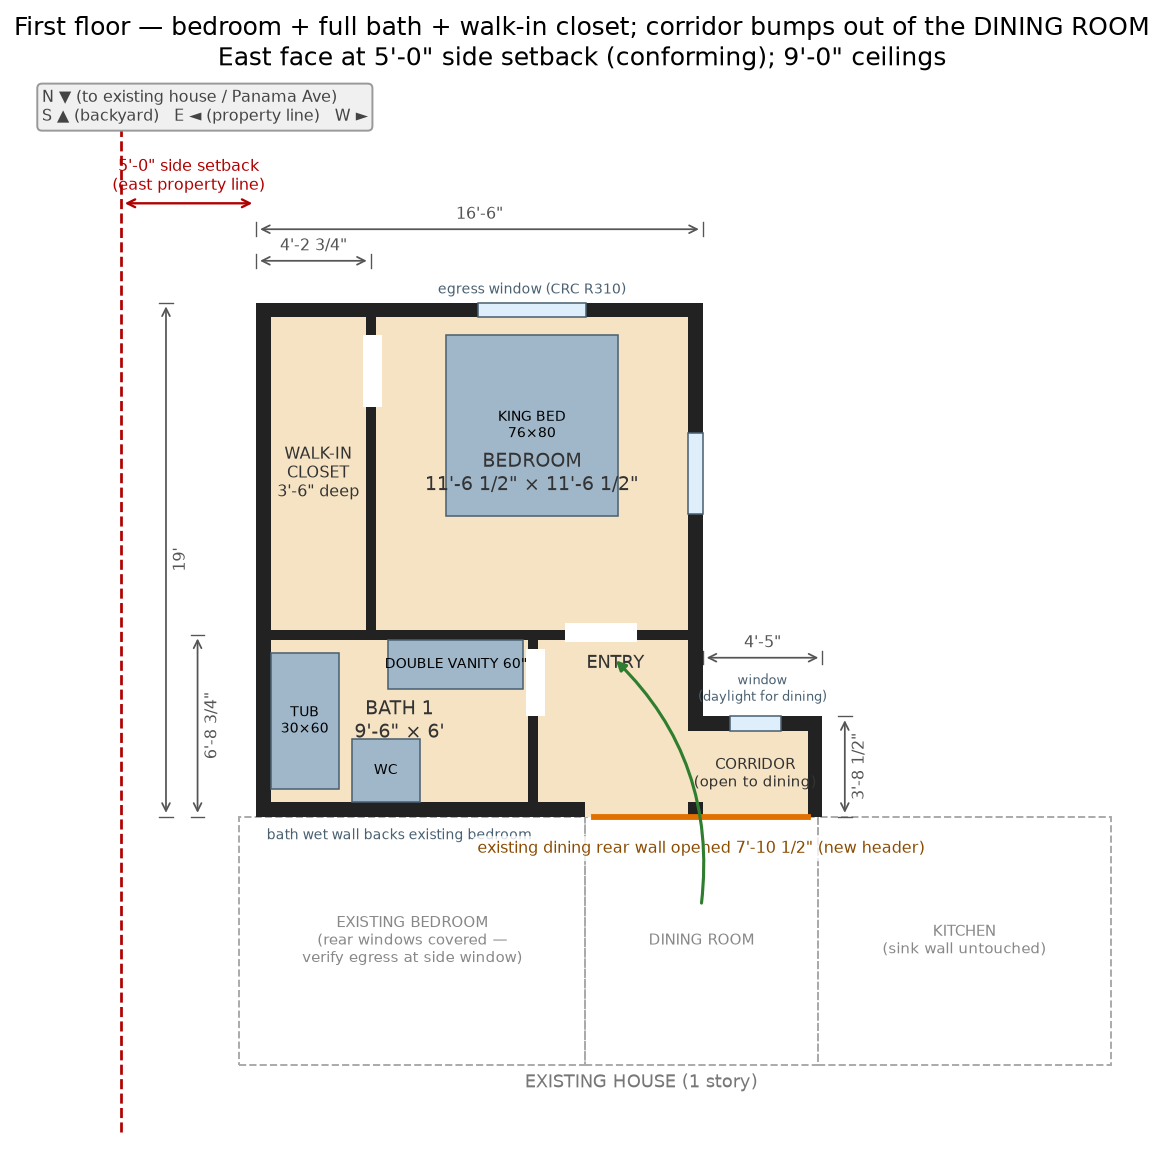
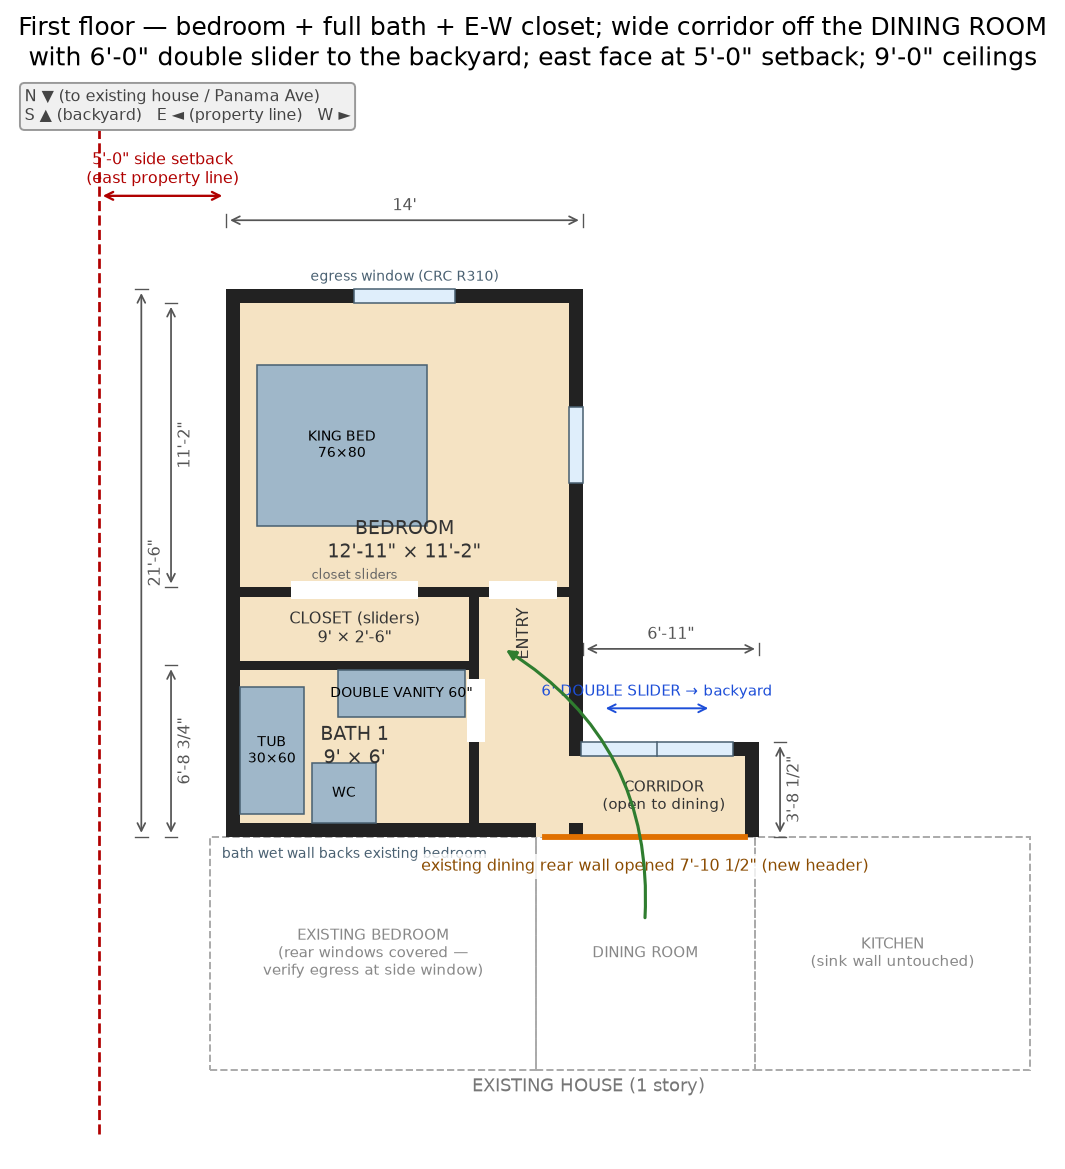
Widen corridor for 6ft double slider: narrow main block to 14ft, E-W closet, deeper bedroom

diff --git a/design/generate_plans.py b/design/generate_plans.py
@@ -140,8 +140,9 @@ def first_floor():
     W, D = f["main_block_ext_width"], f["main_block_ext_depth"]
     nz = f["north_zone_interior_depth"]
     bathw = f["bath_interior_width"]
-    closw = f["closet_interior_width"]
+    closd = f["closet_interior_depth"]
     cor_ns = f["corridor_interior_ns"]
+    slider = f["slider_width"]
 
     # existing-house geometry (local coordinates)
     hx_east = h["east_face_local_x"]            # house east face (east of addition face)
@@ -150,17 +151,16 @@ def first_floor():
     din_e, din_w = x_bd + 4, x_dk - 4.5         # dining interior faces (approx)
 
     fig, ax = base_axes(
-        "First floor — bedroom + full bath + walk-in closet; corridor bumps out of the DINING ROOM\n"
-        "East face at 5'-0\" side setback (conforming); 9'-0\" ceilings")
+        "First floor — bedroom + full bath + E-W closet; wide corridor off the DINING ROOM\n"
+        "with 6'-0\" double slider to the backyard; east face at 5'-0\" setback; 9'-0\" ceilings")
 
     iw, idp = W - 2 * EXT, D - 2 * EXT          # interior width / depth
-    entryw = iw - bathw - INT                   # open entry width (former hall)
-    bedd = idp - nz - INT                       # bedroom zone depth
-    bedw = iw - closw - INT                     # bedroom width
-
-    y_zone = EXT + nz                           # wall between north zone and bedroom zone
-    x_bath = EXT + bathw                        # bath / entry wall
-    x_clos = EXT + closw                        # closet / bedroom wall
+    entryw = iw - bathw - INT                   # entry passage width
+    y_zone = EXT + nz                           # wall between bath and closet
+    y_clos = y_zone + INT + closd               # closet south wall (bedroom side)
+    y_bed = y_clos + INT                        # bedroom north interior face
+    bedd = D - EXT - y_bed                      # bedroom depth
+    x_bath = EXT + bathw                        # bath-closet / entry wall
 
     # corridor bump-out west of the main block, in front of the dining room
     cor_w_int = din_w                           # corridor west interior face aligns w/ dining west wall
@@ -180,18 +180,19 @@ def first_floor():
 
     # ---- room fills ---------------------------------------------------------
     room(ax, EXT, EXT, bathw, nz, "BATH 1", f"{ft_in(bathw)} × {ft_in(nz)}")
-    # open entry: former hall + corridor bump, one continuous space
-    ax.add_patch(Rectangle((x_bath + INT, 0), entryw, EXT + nz, facecolor=ROOM_COLOR,
+    room(ax, EXT, y_zone + INT, bathw, closd, "CLOSET (sliders)",
+         f"{ft_in(bathw)} × {ft_in(closd)}", fs=8)
+    # entry passage: corridor around into the bedroom door — no hall room
+    ax.add_patch(Rectangle((x_bath + INT, 0), entryw, y_clos, facecolor=ROOM_COLOR,
                            edgecolor="none", zorder=1))
-    ax.add_patch(Rectangle((din_e, 0), cor_w_int - din_e, cor_ns, facecolor=ROOM_COLOR,
-                           edgecolor="none", zorder=1))
-    ax.text((x_bath + W) / 2, nz - 6, "ENTRY", ha="center", fontsize=9, color="#333333",
-            zorder=5)
+    ax.add_patch(Rectangle((W - EXT, 0), cor_w_int - W + EXT, cor_ns,
+                           facecolor=ROOM_COLOR, edgecolor="none", zorder=1))
+    ax.text(x_bath + INT + entryw / 2, (y_zone + y_clos) / 2, "ENTRY", ha="center",
+            va="center", fontsize=8, color="#333333", zorder=5, rotation=90)
     ax.text((W + cor_w_int) / 2, cor_ns / 2, "CORRIDOR\n(open to dining)", ha="center",
             va="center", fontsize=7.5, color="#333333", zorder=5)
-    room(ax, EXT, y_zone + INT, closw, bedd, "WALK-IN\nCLOSET", ft_in(closw) + " deep", fs=8)
-    room(ax, x_clos + INT, y_zone + INT, bedw, bedd, "BEDROOM",
-         f"{ft_in(bedw)} × {ft_in(bedd)}")
+    room(ax, EXT, y_bed, iw, bedd, "BEDROOM", f"{ft_in(iw)} × {ft_in(bedd)}",
+         dy=-bedd / 2 + 22)
 
     # ---- walls --------------------------------------------------------------
     wall_rect(ax, 0, 0, EXT, D)                          # east wall
@@ -201,9 +202,9 @@ def first_floor():
     wall_rect(ax, W - EXT, cor_ns + EXT, EXT, D - cor_ns - EXT)  # west wall (south of corridor)
     wall_rect(ax, W - EXT, cor_ns, cor_x1 - W + EXT, EXT)        # corridor south wall
     wall_rect(ax, cor_w_int, 0, EXT, cor_ns + EXT)               # corridor west wall
-    wall_rect(ax, EXT, y_zone, iw, INT)                  # zone wall
-    wall_rect(ax, x_bath, EXT, INT, nz)                  # bath / entry wall
-    wall_rect(ax, x_clos, y_zone + INT, INT, bedd)       # closet / bedroom wall
+    wall_rect(ax, EXT, y_zone, bathw, INT)               # bath / closet wall
+    wall_rect(ax, x_bath, EXT, INT, y_clos - EXT)        # bath+closet / entry wall
+    wall_rect(ax, EXT, y_clos, iw, INT)                  # closet+entry / bedroom wall
 
     # opening in the existing dining rear wall (drawn as orange span at y=0)
     ax.plot([din_e, cor_w_int], [0, 0], color="#e07000", lw=3, zorder=6)
@@ -213,42 +214,51 @@ def first_floor():
             bbox=dict(boxstyle="round", fc="white", ec="none", alpha=0.8))
 
     # circulation arrow: dining -> corridor -> entry -> bedroom
-    ax.annotate("", xy=(x_bath + INT + entryw / 2, y_zone - 8),
+    ax.annotate("", xy=(x_bath + INT + entryw / 2 - 10, y_clos - 24),
                 xytext=((din_e + cor_w_int) / 2, -40),
                 arrowprops=dict(arrowstyle="-|>", color="#2f7d2f", lw=1.6,
-                                connectionstyle="arc3,rad=0.25"), zorder=6)
+                                connectionstyle="arc3,rad=0.3"), zorder=6)
 
     # doors
-    door(ax, x_bath, EXT + nz - 34, 30, horizontal=False)     # bath door from entry
-    door(ax, x_bath + INT + 12, y_zone, 32, horizontal=True)  # bedroom door from entry
-    door(ax, x_clos, y_zone + INT + bedd - 40, 32, horizontal=False)  # closet door
+    door(ax, x_bath, EXT + nz - 34, 30, horizontal=False)       # bath door from entry
+    door(ax, x_bath + INT + 5, y_clos, 32, horizontal=True)     # bedroom door at passage end
+    door(ax, EXT + bathw / 2 - 30, y_clos, 60, horizontal=True)  # closet sliders to bedroom
+    ax.text(EXT + bathw / 2, y_clos + INT + 4, "closet sliders", ha="center",
+            fontsize=6.5, color="#666666", zorder=6)
 
-    # windows: south egress window in bedroom, west window, corridor south window
-    window(ax, x_clos + INT + bedw / 2 - 24, D - EXT, 48, horizontal=True)
-    ax.text(x_clos + INT + bedw / 2, D + 4, "egress window (CRC R310)",
+    # windows / glazed doors
+    window(ax, EXT + iw / 2 - 24, D - EXT, 48, horizontal=True)   # bedroom egress, south
+    ax.text(EXT + iw / 2, D + 4, "egress window (CRC R310)",
             ha="center", fontsize=7, color="#4a6172")
-    window(ax, W - EXT, y_zone + INT + bedd / 2 - 18, 36, horizontal=False)
-    window(ax, W + 12, cor_ns, cor_w_int - W - 24, horizontal=True)
-    ax.text((W + cor_x1) / 2, cor_ns + EXT + 5, "window\n(daylight for dining)",
-            ha="center", va="bottom", fontsize=6.5, color="#4a6172")
+    window(ax, W - EXT, y_bed + bedd / 2 - 18, 36, horizontal=False)  # bedroom west window
+    # 6' double sliding door in the corridor south wall, to the backyard
+    sl_x = (W - EXT + cor_w_int) / 2 - slider / 2
+    window(ax, sl_x, cor_ns, slider, horizontal=True)
+    ax.plot([sl_x + slider / 2, sl_x + slider / 2], [cor_ns, cor_ns + EXT],
+            color="#4a6172", lw=0.8, zorder=5)
+    ax.annotate("", xy=(sl_x + slider / 2 + 26, cor_ns + EXT + 16),
+                xytext=(sl_x + slider / 2 - 26, cor_ns + EXT + 16),
+                arrowprops=dict(arrowstyle="<->", color="#1d4ed8", lw=1.0))
+    ax.text(sl_x + slider / 2, cor_ns + EXT + 22,
+            f"{ft_in(slider)} DOUBLE SLIDER → backyard", ha="center", fontsize=7.5,
+            color="#1d4ed8")
 
     # fixtures — bath 1: tub along east wall, WC north wall, double vanity on zone wall
-    fixture(ax, EXT, EXT + 6, 30, 60, "TUB\n30×60")
-    fixture(ax, EXT + 36, EXT, 30, 28, "WC")
-    fixture(ax, EXT + bathw - 62, EXT + nz - 22, 60, 22, "DOUBLE VANITY 60\"")
+    fixture(ax, EXT, EXT + 4, 30, 60, "TUB\n30×60")
+    fixture(ax, EXT + 34, EXT, 30, 28, "WC")
+    fixture(ax, x_bath - 62, y_zone - 22, 60, 22, "DOUBLE VANITY 60\"")
     ax.text(EXT + bathw / 2, -10, "bath wet wall backs existing bedroom",
             ha="center", fontsize=7, color="#4a6172",
             bbox=dict(boxstyle="round", fc="white", ec="none", alpha=0.8))
-    # king bed in bedroom
-    fixture(ax, x_clos + INT + (bedw - 76) / 2, y_zone + INT + bedd - 80 - 8, 76, 80,
-            "KING BED\n76×80")
+    # king bed: headboard on the east wall
+    fixture(ax, EXT + 8, y_bed + (bedd - 76) / 2, 80, 76, "KING BED\n76×80")
 
     # dimensions
     dim_h(ax, 0, W, D + EXT, offset=26)
-    dim_h(ax, 0, x_clos + INT / 2, D + EXT, offset=12, label=ft_in(x_clos + INT / 2))
     dim_v(ax, 0, D, -14, offset=-26)
-    dim_v(ax, 0, EXT + nz + INT / 2, -14, offset=-12, label=ft_in(EXT + nz + INT / 2))
-    dim_h(ax, W, cor_x1, cor_ns + EXT + 26, label=ft_in(cor_x1 - W))
+    dim_v(ax, 0, y_zone + INT / 2, -14, offset=-12, label=ft_in(y_zone + INT / 2))
+    dim_v(ax, y_bed, D - EXT, -14, offset=-12, label=ft_in(bedd))
+    dim_h(ax, W, cor_x1, cor_ns + EXT + 44, label=ft_in(cor_x1 - W))
     dim_v(ax, 0, cor_ns + EXT, cor_x1 + 10, label=ft_in(cor_ns + EXT))
 
     # setback annotation (above the building, clear of dimension lines)
@@ -268,6 +278,7 @@ def first_floor():
         "footprint_sqft": (W * D + (cor_x1 - W) * (cor_ns + EXT)) / 144.0,
         "interior_sqft": (iw * idp + (cor_w_int - (W - EXT)) * cor_ns) / 144.0,
         "dining_opening_in": cor_w_int - din_e,
+        "bedroom": (iw, bedd),
     }
     return areas
 
@@ -324,12 +335,15 @@ def second_floor():
     # ghost of first floor below
     ax.add_patch(Rectangle((0, 0), f["main_block_ext_width"], f["main_block_ext_depth"],
                            fill=False, edgecolor="#999999", lw=1.0, linestyle=":", zorder=0))
-    ax.text(off / 2, f["main_block_ext_depth"] / 2, "first floor\nbelow\n(4'-0\" offset)",
+    ax.text(off - 6, f["main_block_ext_depth"] / 2, "first floor\nbelow\n(4'-0\" offset)",
             ha="center", va="center", fontsize=7, color="#888888", rotation=90)
     # existing house line (1-story roof below, north of the addition)
     ax.plot([-20, x0 + W + 30], [0, 0], color="#aaaaaa", lw=1.2, linestyle="--", zorder=0)
     ax.text(x0 + W + 34, -2, "existing 1-story house / roof below ↓",
             ha="left", va="top", fontsize=7, color="#888888")
+    # cantilever beyond the narrowed first-floor west wall
+    fW = f["main_block_ext_width"]
+    dim_h(ax, fW, x0 + W, -16, label=f"{ft_in(x0 + W - fW)} cantilever")
 
     # exterior stair + landing along south wall
     land = st["top_landing"]

diff --git a/design/README.md b/design/README.md
@@ -1,4 +1,4 @@
-# Two-story rear addition — formalized mockup (v2)
+# Two-story rear addition — formalized mockup (v3)
 
 5916 Panama Ave, Richmond, CA 94804 · APN 510-132-010-8 · Zoning RL2
 
@@ -20,14 +20,20 @@ Owner decisions incorporated:
    wall is opened ≈ 7′-10″ (new header) and the corridor flows around into the
    addition's entry. **No separate hall**: the entry is one continuous open
    space from the dining room to the bedroom and bath doors.
-5. The addition's bathroom backs against the existing rear **bedroom** wall.
-6. **9′-0″ first-floor ceilings**, 8′-0″ second floor.
+5. **Wide corridor with a 6′-0″ double sliding door to the backyard** (v3):
+   the main block narrowed from 16′-6″ to **14′-0″** so the corridor's south
+   face is ≈ 7′ wide — room for the slider. The **closet flipped to run
+   east–west against the bathroom wall**, and the main block deepened from
+   19′-0″ to **21′-6″** so the bedroom stays king-size comfortable.
+6. The addition's bathroom backs against the existing rear **bedroom** wall.
+7. **9′-0″ first-floor ceilings**, 8′-0″ second floor.
 
 ## How the addition meets the existing house
 
-- The main block (16′-6″ wide) sits behind the existing rear bedroom and laps
-  ≈ 4′ of the dining room's rear wall — that lap plus the bump-out is the
-  connection. Walking path: dining room → corridor → entry → bedroom/bath.
+- The main block (14′-0″ wide) sits behind the existing rear bedroom and just
+  laps the east edge of the dining room. The corridor bump-out spans the rest
+  of the dining room's rear wall. Walking path: dining room → corridor
+  (double slider to the yard on its south face) → entry passage → bedroom/bath.
 - The bump-out's west wall aligns with the dining/kitchen wall, so the
   **kitchen sink wall and its window are untouched**.
 - The existing rear bedroom keeps its side window but loses its two rear
@@ -51,32 +57,33 @@ bottom = north (Panama side), left = east (property line), top = south (backyard
 
 ## Room schedule
 
-### First floor — footprint 330 sq ft (interior 290 sq ft)
+### First floor — footprint 327 sq ft (interior 286 sq ft)
 
 | Room | Clear dimensions | Notes |
 | --- | --- | --- |
-| Bedroom | 11′-6½″ × 11′-6½″ | Fits king bed (76″×80″) with ≥30″ on both sides; egress window on south wall |
-| Walk-in closet | 3′-6″ × 11′-6½″ | East wall (property-line side); its west wall carries the second-floor east wall |
-| Bath 1 (full) | 9′-6″ × 6′-0″ | 30×60 tub, WC, 60″ double vanity; wet wall backs the existing bedroom |
-| Entry | 5′-6½″ wide | Open to the corridor — no door, no hall |
-| Corridor (dining bump-out) | ≈ 8′ of opening × 3′-2″ deep | Fully open to the dining room; south window |
+| Bedroom | 12′-11″ × 11′-2″ | King bed (76″×80″) headboard on the east wall with 6′+ of clear floor beside it; egress window on south wall, window on west wall |
+| Closet | 9′-0″ × 2′-6″ | Runs east–west against the bathroom wall; sliding doors facing the bedroom |
+| Bath 1 (full) | 9′-0″ × 6′-0″ | 30×60 tub, WC, 60″ double vanity; wet wall backs the existing bedroom |
+| Entry passage | 3′-6½″ wide | From the corridor past bath and closet to the bedroom door — no hall |
+| Corridor (dining bump-out) | ≈ 7′-10″ opening × 3′-2″ deep | Fully open to the dining room; **6′-0″ double sliding door to the backyard** in its south face |
 
-Main block 16′-6″ × 19′-0″ exterior; bump-out beyond the main block ≈ 4′-5″ × 3′-8½″.
+Main block 14′-0″ × 21′-6″ exterior; bump-out beyond the main block 6′-11″ × 3′-8½″.
 
-### Second floor — plate 238 sq ft (interior 205 sq ft)
+### Second floor — plate 269 sq ft (interior 233 sq ft)
 
 | Room | Clear dimensions | Notes |
 | --- | --- | --- |
-| Office | 11′-5″ × 12′-0½″ | Windows south + west; entry door at SE corner |
+| Office | 11′-5″ × 14′-6½″ | Windows south + west; entry door at SE corner |
 | Bath 2 | 11′-5″ × 5′-6″ | 36×36 shower stacked over Bath 1 wet wall, WC, 48″ vanity |
 
-Plate 12′-6″ × 19′-0″, east face 4′-0″ west of the ground-floor east face.
+Plate 12′-6″ × 21′-6″, east face 4′-0″ west of the ground-floor east face; the
+west wall cantilevers 2′-6″ beyond the narrowed first-floor west wall.
 
 ### Exterior stair
 
 - 19 risers @ 7.37″ (max 7¾″ ✓), 18 treads @ 10.5″ (min 10″ ✓), 36″ wide
 - Straight run 15′-9″ along the south wall + 4′×4′ top landing = 19′-9″ total;
-  the bottom ~7′ extends past the addition's southwest corner into the yard
+  the bottom ~9′ extends past the addition's southwest corner into the yard
   (an L-return at the bottom is the fallback if that projection is unwanted)
 - Total rise 11′-8″ (grade → second finish floor, assuming first floor framed
   ~18″ above grade to match the existing floor level — **field-verify**)
@@ -88,13 +95,13 @@ Plate 12′-6″ × 19′-0″, east face 4′-0″ west of the ground-floor eas
 | --- | --- | --- | --- |
 | East side setback, ground | 5′ | 5′-0″ | ✓ conforming |
 | East side setback, upper | 9′ | 9′-0″ | ✓ conforming |
-| Rear setback | 20′ (10′ optional) | ≈ 30′ remaining (house rear at ~50.5′ w/ assumed 20′ front setback) | ✓ verify front setback on site |
+| Rear setback | 20′ (10′ optional) | ≈ 28′ remaining (house rear at ~50.5′ w/ assumed 20′ front setback) | ✓ verify front setback on site |
 | Height | 30′ max | ridge ≈ 22′-6″ | ✓ |
-| Lot coverage | ≤ 2,500 sq ft | ≈ 1,967 + stair/landing | ✓ |
-| Residential floor area | ≤ 2,500 sq ft | 842 existing + 567 new = 1,409 | ✓ |
+| Lot coverage | ≤ 2,500 sq ft | ≈ 1,964 + stair/landing | ✓ |
+| Residential floor area | ≤ 2,500 sq ft | 842 existing + 595 new = 1,437 | ✓ |
 
 With the real 30.5′ house depth the rear yard has generous margin: the
-addition reaches ≈ 69.5′ from the front line and the stair ≈ 73′, vs the 20′
+addition reaches ≈ 72′ from the front line and the stair ≈ 75.5′, vs the 20′
 rear setback line at 80′. Open items: (a) confirm the front setback (drives
 everything above); (b) design review / compatibility standards
 (RMC 15.04.201.040).
@@ -116,11 +123,14 @@ everything above); (b) design review / compatibility standards
 
 ## Structural notes (for the engineer)
 
-- Second-floor east wall bears on the closet's west wall line (stacked bearing);
-  a flush beam picks up the load across the 6′ Bath 1 span.
-- New header (~8′) in the existing dining rear wall for the corridor opening.
-- Corridor bump-out is a one-story flat/shed-roof element; the two-story mass
-  stacks north/south walls directly.
+- With the closet flipped east–west there is no first-floor bearing wall under
+  the second-floor east wall (4′-0″ line): flush beams (LVL) carry it — the
+  longest segment spans the ~11′ bedroom depth.
+- Second-floor west wall cantilevers 2′-6″ past the first-floor west wall
+  (floor joists span east–west, ~10′ back-span — within the 1:3 cantilever rule).
+- New header (~8′) in the existing dining rear wall for the corridor opening;
+  6′-0″ slider header in the corridor's south wall.
+- Corridor bump-out is a one-story flat/shed-roof element.
 - The addition's north wall furs against the existing bedroom/dining rear wall;
   second-floor north wall rises above the existing 1-story roof (flashing/tie-in).
 - Foundation: new crawlspace stem walls matching existing floor level
@@ -128,7 +138,9 @@ everything above); (b) design review / compatibility standards
 
 ## Preliminary cost estimate (Bay Area, 2026, contractor-built, mid/standard finishes)
 
-567 sq ft new gross floor area, two baths (stacked plumbing), exterior stair.
+595 sq ft new gross floor area, two baths (stacked plumbing), exterior stair,
+6′ double slider. (The cantilever and flush beams add modest framing cost —
+covered within the framing range below.)
 
 | Line item | Low | High |
 | --- | ---: | ---: |
@@ -136,10 +148,10 @@ everything above); (b) design review / compatibility standards
 | Survey (property corners — needed for the 5′ setback) | $3,000 | $6,000 |
 | Permits, plan check, city + school fees | $10,000 | $18,000 |
 | Site prep, excavation, demo at rear wall | $8,000 | $14,000 |
-| Foundation (crawlspace stem walls, ~330 sq ft) | $28,000 | $45,000 |
+| Foundation (crawlspace stem walls, ~327 sq ft) | $28,000 | $45,000 |
 | Framing labor + lumber (two-story + stair structure) | $55,000 | $80,000 |
 | Roofing + gutters + tie-in | $10,000 | $16,000 |
-| Windows + exterior doors | $12,000 | $20,000 |
+| Windows + exterior doors (incl. 6′ double slider) | $13,000 | $22,000 |
 | Siding, exterior trim, paint | $16,000 | $26,000 |
 | Exterior stair, landing, guardrails | $10,000 | $16,000 |
 | Plumbing rough + fixtures (2 baths, stacked) | $28,000 | $45,000 |
@@ -149,11 +161,11 @@ everything above); (b) design review / compatibility standards
 | Interior finishes (floors, doors, trim, paint) | $16,000 | $26,000 |
 | Bath tile + finish (2 baths) | $14,000 | $26,000 |
 | Dining-room wall opening + structural header | $6,000 | $12,000 |
-| **Construction subtotal** | **$271,000** | **$438,000** |
+| **Construction subtotal** | **$272,000** | **$440,000** |
 | Contingency (10%) | $27,000 | $44,000 |
-| **Total project** | **≈ $298,000** | **≈ $482,000** |
+| **Total project** | **≈ $299,000** | **≈ $484,000** |
 
-That is roughly **$525–$850 per new gross sq ft** — normal for a small
+That is roughly **$500–$815 per new gross sq ft** — normal for a small
 two-story Bay Area addition with two bathrooms (small projects carry a high
 fixed-cost share; the two baths and the stair are the big drivers).
 
